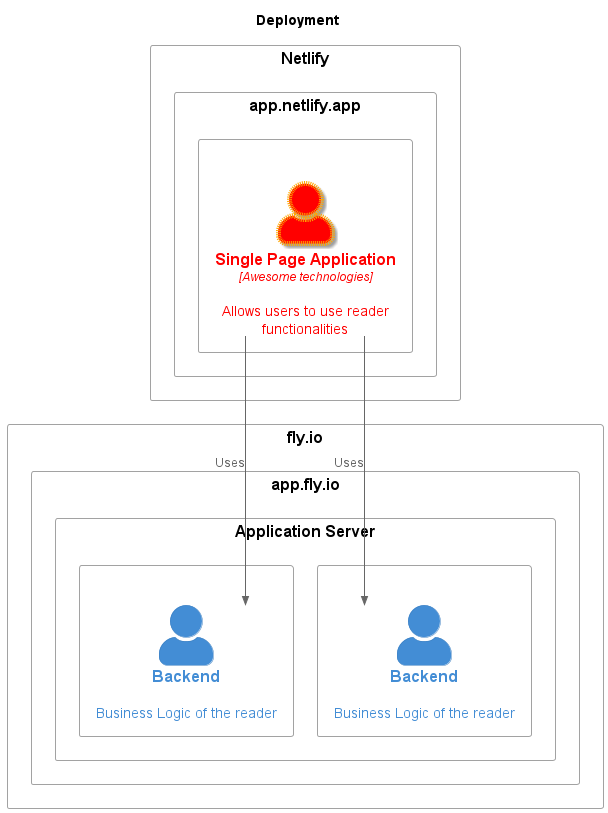
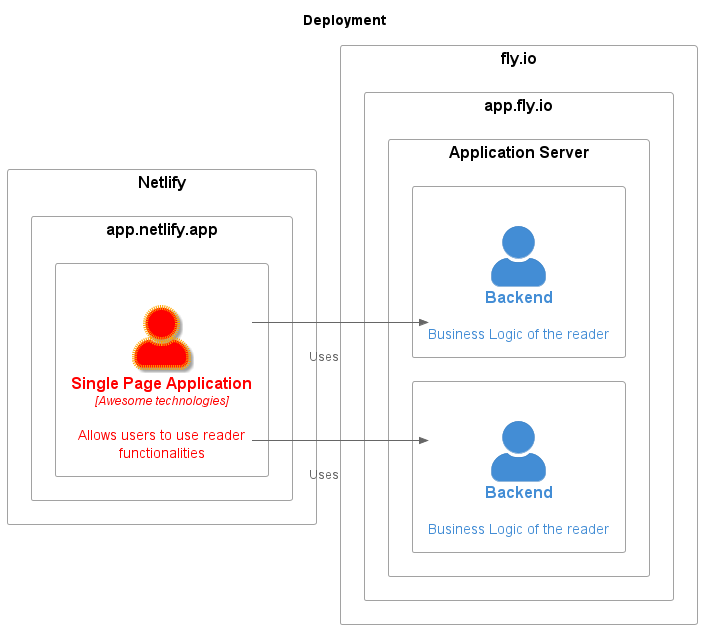
diagram direction is configurable

diff --git a/src/main/java/it/vitalegi/archi/exporter/c4/plantuml/AbstractDiagramPlantumlExporter.java b/src/main/java/it/vitalegi/archi/exporter/c4/plantuml/AbstractDiagramPlantumlExporter.java
@@ -11,6 +11,7 @@ import it.vitalegi.archi.model.style.Tags;
 import it.vitalegi.archi.util.StringUtil;
 
 import java.util.ArrayList;
+import java.util.Objects;
 
 public abstract class AbstractDiagramPlantumlExporter<E extends Diagram> {
 
@@ -59,8 +60,8 @@ public abstract class AbstractDiagramPlantumlExporter<E extends Diagram> {
     }
 
     protected void writeDirection(E diagram, C4PlantumlWriter writer) {
-        //TODO
-        writer.direction(LayoutDirection.TOP_TO_BOTTOM);
+        var direction = diagram.getOptions().getDirection();
+        writer.direction(Objects.requireNonNullElse(direction, LayoutDirection.TOP_TO_BOTTOM));
     }
 
     protected void writeTitle(E diagram, C4PlantumlWriter writer) {

diff --git a/src/main/java/it/vitalegi/archi/model/diagram/DiagramOptions.java b/src/main/java/it/vitalegi/archi/model/diagram/DiagramOptions.java
@@ -1,5 +1,6 @@
 package it.vitalegi.archi.model.diagram;
 
+import it.vitalegi.archi.exporter.c4.plantuml.constants.LayoutDirection;
 import lombok.Builder;
 import lombok.Data;
 import lombok.NoArgsConstructor;
@@ -7,6 +8,7 @@ import lombok.NoArgsConstructor;
 @Data
 @NoArgsConstructor
 public class DiagramOptions {
+    LayoutDirection direction;
     boolean inheritRelations;
 
     @Builder
